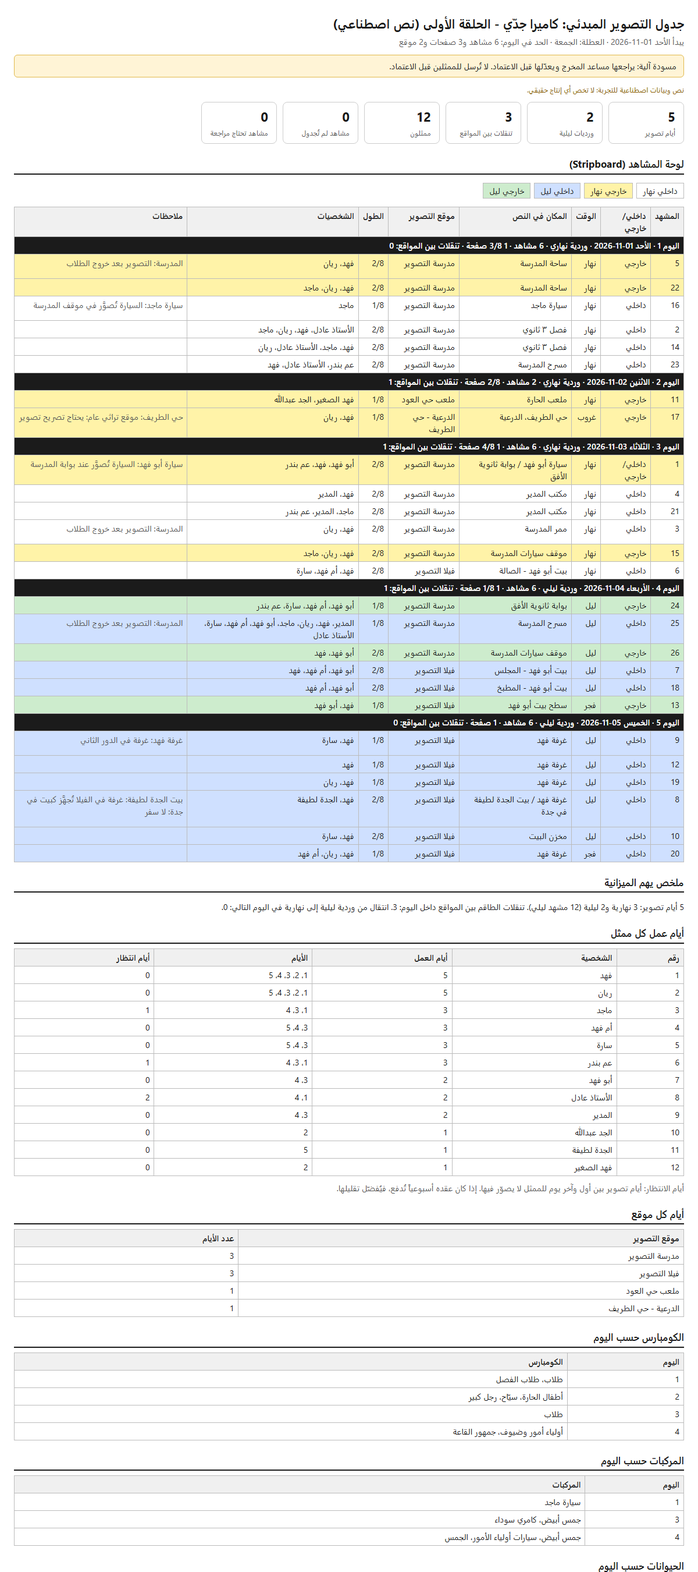
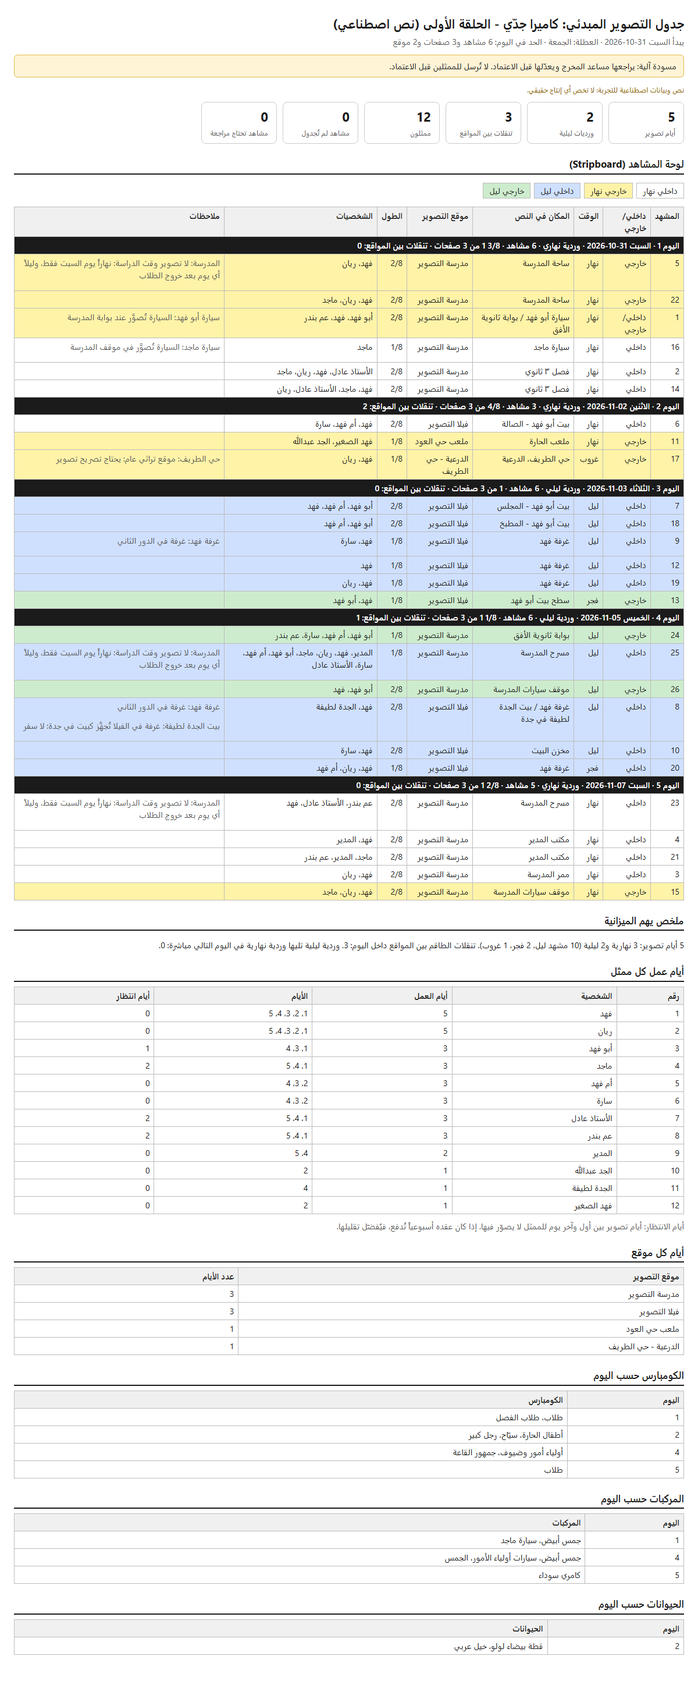
Example schedule, budget summary and call sheets for days 2 and 4, with new screenshots

diff --git a/arabic-script-breakdown/examples/plan/schedule.html b/arabic-script-breakdown/examples/plan/schedule.html
@@ -24,6 +24,9 @@ tr.int-night td { background: #cfe0ff; }
 tr.ext-night td { background: #cdeccd; }
 .legend span { display: inline-block; padding: 2px 10px; border: 1px solid #bbb; margin-left: 6px; }
 .flag { color: #a40000; font-weight: 600; }
+.problems { background: #fdecec; border: 1px solid #c94a4a; color: #7a0000; padding: 8px 12px; border-radius: 6px;
+            margin: 10px 0; }
+.problems ul { margin: 4px 0 0; }
 .num { font-variant-numeric: tabular-nums; }
 span[dir="ltr"] { white-space: nowrap; }
 .watermark { position: fixed; top: 40%; left: 0; right: 0; text-align: center; font-size: 110px;
@@ -33,60 +36,60 @@ span[dir="ltr"] { white-space: nowrap; }
 @media print { body { margin: 0; } .tile { break-inside: avoid; } tr { break-inside: avoid; } }
 </style></head><body>
 <h1>جدول التصوير المبدئي: كاميرا جدّي - الحلقة الأولى (نص اصطناعي)</h1>
-<p class="sub">يبدأ الأحد <span dir="ltr">2026-11-01</span> · العطلة: الجمعة · الحد في اليوم: 6 مشاهد و3 صفحات و2 موقع</p>
+<p class="sub">يبدأ السبت <span dir="ltr">2026-10-31</span> · العطلة: الجمعة · الحد في اليوم: 6 مشاهد و3 صفحات و2 موقع</p>
 <div class="draft">مسودة آلية: يراجعها مساعد المخرج ويعدّلها قبل الاعتماد. لا تُرسل للممثلين قبل الاعتماد.</div>
 <p class="synthetic">نص وبيانات اصطناعية للتجربة: لا تخص أي إنتاج حقيقي.</p>
 <div class="tiles"><div class="tile"><b class="num">5</b><span>أيام تصوير</span></div><div class="tile"><b class="num">2</b><span>ورديات ليلية</span></div><div class="tile"><b class="num">3</b><span>تنقلات بين المواقع</span></div><div class="tile"><b class="num">12</b><span>ممثلون</span></div><div class="tile"><b class="num">0</b><span>مشاهد لم تُجدول</span></div><div class="tile"><b class="num">0</b><span>مشاهد تحتاج مراجعة</span></div></div>
 <h2>لوحة المشاهد (Stripboard)</h2>
 <p class="legend"><span style="background:#fff">داخلي نهار</span><span style="background:#fff3a8">خارجي نهار</span><span style="background:#cfe0ff">داخلي ليل</span><span style="background:#cdeccd">خارجي ليل</span></p>
 <table><thead><tr><th>المشهد</th><th>داخلي/خارجي</th><th>الوقت</th><th>المكان في النص</th><th>موقع التصوير</th><th>الطول</th><th>الشخصيات</th><th>ملاحظات</th></tr></thead><tbody>
-<tr class="daybreak"><td colspan="8">اليوم 1 · الأحد <span dir="ltr">2026-11-01</span> · وردية نهاري · 6 مشاهد · 1 3/8 صفحة · تنقلات بين المواقع: 0</td></tr>
-<tr class="ext-day"><td><span class="num">5</span></td><td>خارجي</td><td>نهار</td><td>ساحة المدرسة</td><td>مدرسة التصوير</td><td>2/8</td><td>فهد، ريان</td><td><div class="sub">المدرسة: التصوير بعد خروج الطلاب</div></td></tr>
+<tr class="daybreak"><td colspan="8">اليوم 1 · السبت <span dir="ltr">2026-10-31</span> · وردية نهاري · 6 مشاهد · <span dir="ltr">1 3/8</span> من 3 صفحات · تنقلات بين المواقع: 0</td></tr>
+<tr class="ext-day"><td><span class="num">5</span></td><td>خارجي</td><td>نهار</td><td>ساحة المدرسة</td><td>مدرسة التصوير</td><td>2/8</td><td>فهد، ريان</td><td><div class="sub">المدرسة: لا تصوير وقت الدراسة: نهاراً يوم السبت فقط، وليلاً أي يوم بعد خروج الطلاب</div></td></tr>
 <tr class="ext-day"><td><span class="num">22</span></td><td>خارجي</td><td>نهار</td><td>ساحة المدرسة</td><td>مدرسة التصوير</td><td>2/8</td><td>فهد، ريان، ماجد</td><td></td></tr>
+<tr class="ext-day"><td><span class="num">1</span></td><td>داخلي/خارجي</td><td>نهار</td><td>سيارة أبو فهد / بوابة ثانوية الأفق</td><td>مدرسة التصوير</td><td>2/8</td><td>أبو فهد، فهد، عم بندر</td><td><div class="sub">سيارة أبو فهد: السيارة تُصوَّر عند بوابة المدرسة</div></td></tr>
 <tr class="int-day"><td><span class="num">16</span></td><td>داخلي</td><td>نهار</td><td>سيارة ماجد</td><td>مدرسة التصوير</td><td>1/8</td><td>ماجد</td><td><div class="sub">سيارة ماجد: السيارة تُصوَّر في موقف المدرسة</div></td></tr>
 <tr class="int-day"><td><span class="num">2</span></td><td>داخلي</td><td>نهار</td><td>فصل ٣ ثانوي</td><td>مدرسة التصوير</td><td>2/8</td><td>الأستاذ عادل، فهد، ريان، ماجد</td><td></td></tr>
 <tr class="int-day"><td><span class="num">14</span></td><td>داخلي</td><td>نهار</td><td>فصل ٣ ثانوي</td><td>مدرسة التصوير</td><td>2/8</td><td>فهد، ماجد، الأستاذ عادل، ريان</td><td></td></tr>
-<tr class="int-day"><td><span class="num">23</span></td><td>داخلي</td><td>نهار</td><td>مسرح المدرسة</td><td>مدرسة التصوير</td><td>2/8</td><td>عم بندر، الأستاذ عادل، فهد</td><td></td></tr>
-<tr class="daybreak"><td colspan="8">اليوم 2 · الاثنين <span dir="ltr">2026-11-02</span> · وردية نهاري · 2 مشاهد · 2/8 صفحة · تنقلات بين المواقع: 1</td></tr>
+<tr class="daybreak"><td colspan="8">اليوم 2 · الاثنين <span dir="ltr">2026-11-02</span> · وردية نهاري · 3 مشاهد · <span dir="ltr">4/8</span> من 3 صفحات · تنقلات بين المواقع: 2</td></tr>
+<tr class="int-day"><td><span class="num">6</span></td><td>داخلي</td><td>نهار</td><td>بيت أبو فهد - الصالة</td><td>فيلا التصوير</td><td>2/8</td><td>فهد، أم فهد، سارة</td><td></td></tr>
 <tr class="ext-day"><td><span class="num">11</span></td><td>خارجي</td><td>نهار</td><td>ملعب الحارة</td><td>ملعب حي العود</td><td>1/8</td><td>فهد الصغير، الجد عبدالله</td><td></td></tr>
 <tr class="ext-day"><td><span class="num">17</span></td><td>خارجي</td><td>غروب</td><td>حي الطريف، الدرعية</td><td>الدرعية - حي الطريف</td><td>1/8</td><td>فهد، ريان</td><td><div class="sub">حي الطريف: موقع تراثي عام: يحتاج تصريح تصوير</div></td></tr>
-<tr class="daybreak"><td colspan="8">اليوم 3 · الثلاثاء <span dir="ltr">2026-11-03</span> · وردية نهاري · 6 مشاهد · 1 4/8 صفحة · تنقلات بين المواقع: 1</td></tr>
-<tr class="ext-day"><td><span class="num">1</span></td><td>داخلي/خارجي</td><td>نهار</td><td>سيارة أبو فهد / بوابة ثانوية الأفق</td><td>مدرسة التصوير</td><td>2/8</td><td>أبو فهد، فهد، عم بندر</td><td><div class="sub">سيارة أبو فهد: السيارة تُصوَّر عند بوابة المدرسة</div></td></tr>
-<tr class="int-day"><td><span class="num">4</span></td><td>داخلي</td><td>نهار</td><td>مكتب المدير</td><td>مدرسة التصوير</td><td>2/8</td><td>فهد، المدير</td><td></td></tr>
-<tr class="int-day"><td><span class="num">21</span></td><td>داخلي</td><td>نهار</td><td>مكتب المدير</td><td>مدرسة التصوير</td><td>2/8</td><td>ماجد، المدير، عم بندر</td><td></td></tr>
-<tr class="int-day"><td><span class="num">3</span></td><td>داخلي</td><td>نهار</td><td>ممر المدرسة</td><td>مدرسة التصوير</td><td>2/8</td><td>فهد، ريان</td><td><div class="sub">المدرسة: التصوير بعد خروج الطلاب</div></td></tr>
-<tr class="ext-day"><td><span class="num">15</span></td><td>خارجي</td><td>نهار</td><td>موقف سيارات المدرسة</td><td>مدرسة التصوير</td><td>2/8</td><td>فهد، ريان، ماجد</td><td></td></tr>
-<tr class="int-day"><td><span class="num">6</span></td><td>داخلي</td><td>نهار</td><td>بيت أبو فهد - الصالة</td><td>فيلا التصوير</td><td>2/8</td><td>فهد، أم فهد، سارة</td><td></td></tr>
-<tr class="daybreak"><td colspan="8">اليوم 4 · الأربعاء <span dir="ltr">2026-11-04</span> · وردية ليلي · 6 مشاهد · 1 1/8 صفحة · تنقلات بين المواقع: 1</td></tr>
-<tr class="ext-night"><td><span class="num">24</span></td><td>خارجي</td><td>ليل</td><td>بوابة ثانوية الأفق</td><td>مدرسة التصوير</td><td>1/8</td><td>أبو فهد، أم فهد، سارة، عم بندر</td><td></td></tr>
-<tr class="int-night"><td><span class="num">25</span></td><td>داخلي</td><td>ليل</td><td>مسرح المدرسة</td><td>مدرسة التصوير</td><td>1/8</td><td>المدير، فهد، ريان، ماجد، أبو فهد، أم فهد، سارة، الأستاذ عادل</td><td><div class="sub">المدرسة: التصوير بعد خروج الطلاب</div></td></tr>
-<tr class="ext-night"><td><span class="num">26</span></td><td>خارجي</td><td>ليل</td><td>موقف سيارات المدرسة</td><td>مدرسة التصوير</td><td>2/8</td><td>أبو فهد، فهد</td><td></td></tr>
+<tr class="daybreak"><td colspan="8">اليوم 3 · الثلاثاء <span dir="ltr">2026-11-03</span> · وردية ليلي · 6 مشاهد · <span dir="ltr">1</span> من 3 صفحات · تنقلات بين المواقع: 0</td></tr>
 <tr class="int-night"><td><span class="num">7</span></td><td>داخلي</td><td>ليل</td><td>بيت أبو فهد - المجلس</td><td>فيلا التصوير</td><td>2/8</td><td>أبو فهد، أم فهد، فهد</td><td></td></tr>
 <tr class="int-night"><td><span class="num">18</span></td><td>داخلي</td><td>ليل</td><td>بيت أبو فهد - المطبخ</td><td>فيلا التصوير</td><td>2/8</td><td>أبو فهد، أم فهد</td><td></td></tr>
-<tr class="ext-night"><td><span class="num">13</span></td><td>خارجي</td><td>فجر</td><td>سطح بيت أبو فهد</td><td>فيلا التصوير</td><td>1/8</td><td>فهد، أبو فهد</td><td></td></tr>
-<tr class="daybreak"><td colspan="8">اليوم 5 · الخميس <span dir="ltr">2026-11-05</span> · وردية ليلي · 6 مشاهد · 1 صفحة · تنقلات بين المواقع: 0</td></tr>
 <tr class="int-night"><td><span class="num">9</span></td><td>داخلي</td><td>ليل</td><td>غرفة فهد</td><td>فيلا التصوير</td><td>1/8</td><td>فهد، سارة</td><td><div class="sub">غرفة فهد: غرفة في الدور الثاني</div></td></tr>
 <tr class="int-night"><td><span class="num">12</span></td><td>داخلي</td><td>ليل</td><td>غرفة فهد</td><td>فيلا التصوير</td><td>1/8</td><td>فهد</td><td></td></tr>
 <tr class="int-night"><td><span class="num">19</span></td><td>داخلي</td><td>ليل</td><td>غرفة فهد</td><td>فيلا التصوير</td><td>1/8</td><td>فهد، ريان</td><td></td></tr>
-<tr class="int-night"><td><span class="num">8</span></td><td>داخلي</td><td>ليل</td><td>غرفة فهد / بيت الجدة لطيفة في جدة</td><td>فيلا التصوير</td><td>2/8</td><td>فهد، الجدة لطيفة</td><td><div class="sub">بيت الجدة لطيفة: غرفة في الفيلا تُجهَّز كبيت في جدة: لا سفر</div></td></tr>
+<tr class="ext-night"><td><span class="num">13</span></td><td>خارجي</td><td>فجر</td><td>سطح بيت أبو فهد</td><td>فيلا التصوير</td><td>1/8</td><td>فهد، أبو فهد</td><td></td></tr>
+<tr class="daybreak"><td colspan="8">اليوم 4 · الخميس <span dir="ltr">2026-11-05</span> · وردية ليلي · 6 مشاهد · <span dir="ltr">1 1/8</span> من 3 صفحات · تنقلات بين المواقع: 1</td></tr>
+<tr class="ext-night"><td><span class="num">24</span></td><td>خارجي</td><td>ليل</td><td>بوابة ثانوية الأفق</td><td>مدرسة التصوير</td><td>1/8</td><td>أبو فهد، أم فهد، سارة، عم بندر</td><td></td></tr>
+<tr class="int-night"><td><span class="num">25</span></td><td>داخلي</td><td>ليل</td><td>مسرح المدرسة</td><td>مدرسة التصوير</td><td>1/8</td><td>المدير، فهد، ريان، ماجد، أبو فهد، أم فهد، سارة، الأستاذ عادل</td><td><div class="sub">المدرسة: لا تصوير وقت الدراسة: نهاراً يوم السبت فقط، وليلاً أي يوم بعد خروج الطلاب</div></td></tr>
+<tr class="ext-night"><td><span class="num">26</span></td><td>خارجي</td><td>ليل</td><td>موقف سيارات المدرسة</td><td>مدرسة التصوير</td><td>2/8</td><td>أبو فهد، فهد</td><td></td></tr>
+<tr class="int-night"><td><span class="num">8</span></td><td>داخلي</td><td>ليل</td><td>غرفة فهد / بيت الجدة لطيفة في جدة</td><td>فيلا التصوير</td><td>2/8</td><td>فهد، الجدة لطيفة</td><td><div class="sub">غرفة فهد: غرفة في الدور الثاني</div><div class="sub">بيت الجدة لطيفة: غرفة في الفيلا تُجهَّز كبيت في جدة: لا سفر</div></td></tr>
 <tr class="int-night"><td><span class="num">10</span></td><td>داخلي</td><td>ليل</td><td>مخزن البيت</td><td>فيلا التصوير</td><td>2/8</td><td>فهد، سارة</td><td></td></tr>
 <tr class="int-night"><td><span class="num">20</span></td><td>داخلي</td><td>فجر</td><td>غرفة فهد</td><td>فيلا التصوير</td><td>1/8</td><td>فهد، ريان، أم فهد</td><td></td></tr>
+<tr class="daybreak"><td colspan="8">اليوم 5 · السبت <span dir="ltr">2026-11-07</span> · وردية نهاري · 5 مشاهد · <span dir="ltr">1 2/8</span> من 3 صفحات · تنقلات بين المواقع: 0</td></tr>
+<tr class="int-day"><td><span class="num">23</span></td><td>داخلي</td><td>نهار</td><td>مسرح المدرسة</td><td>مدرسة التصوير</td><td>2/8</td><td>عم بندر، الأستاذ عادل، فهد</td><td><div class="sub">المدرسة: لا تصوير وقت الدراسة: نهاراً يوم السبت فقط، وليلاً أي يوم بعد خروج الطلاب</div></td></tr>
+<tr class="int-day"><td><span class="num">4</span></td><td>داخلي</td><td>نهار</td><td>مكتب المدير</td><td>مدرسة التصوير</td><td>2/8</td><td>فهد، المدير</td><td></td></tr>
+<tr class="int-day"><td><span class="num">21</span></td><td>داخلي</td><td>نهار</td><td>مكتب المدير</td><td>مدرسة التصوير</td><td>2/8</td><td>ماجد، المدير، عم بندر</td><td></td></tr>
+<tr class="int-day"><td><span class="num">3</span></td><td>داخلي</td><td>نهار</td><td>ممر المدرسة</td><td>مدرسة التصوير</td><td>2/8</td><td>فهد، ريان</td><td></td></tr>
+<tr class="ext-day"><td><span class="num">15</span></td><td>خارجي</td><td>نهار</td><td>موقف سيارات المدرسة</td><td>مدرسة التصوير</td><td>2/8</td><td>فهد، ريان، ماجد</td><td></td></tr>
 </tbody></table>
 <h2>ملخص يهم الميزانية</h2>
-<p>5 أيام تصوير: 3 نهارية و2 ليلية (12 مشهد ليلي). تنقلات الطاقم بين المواقع داخل اليوم: 3. انتقال من وردية ليلية إلى نهارية في اليوم التالي: 0.</p>
+<p>5 أيام تصوير: 3 نهارية و2 ليلية (10 مشهد ليل، 2 فجر، 1 غروب). تنقلات الطاقم بين المواقع داخل اليوم: 3. وردية ليلية تليها وردية نهارية في اليوم التالي مباشرة: 0.</p>
 <h2>أيام عمل كل ممثل</h2>
 <table><thead><tr><th>رقم</th><th>الشخصية</th><th>أيام العمل</th><th>الأيام</th><th>أيام انتظار</th></tr></thead><tbody>
 <tr><td>1</td><td>فهد</td><td>5</td><td>1، 2، 3، 4، 5</td><td>0</td></tr>
 <tr><td>2</td><td>ريان</td><td>5</td><td>1، 2، 3، 4، 5</td><td>0</td></tr>
-<tr><td>3</td><td>ماجد</td><td>3</td><td>1، 3، 4</td><td>1</td></tr>
-<tr><td>4</td><td>أم فهد</td><td>3</td><td>3، 4، 5</td><td>0</td></tr>
-<tr><td>5</td><td>سارة</td><td>3</td><td>3، 4، 5</td><td>0</td></tr>
-<tr><td>6</td><td>عم بندر</td><td>3</td><td>1، 3، 4</td><td>1</td></tr>
-<tr><td>7</td><td>أبو فهد</td><td>2</td><td>3، 4</td><td>0</td></tr>
-<tr><td>8</td><td>الأستاذ عادل</td><td>2</td><td>1، 4</td><td>2</td></tr>
-<tr><td>9</td><td>المدير</td><td>2</td><td>3، 4</td><td>0</td></tr>
+<tr><td>3</td><td>أبو فهد</td><td>3</td><td>1، 3، 4</td><td>1</td></tr>
+<tr><td>4</td><td>ماجد</td><td>3</td><td>1، 4، 5</td><td>2</td></tr>
+<tr><td>5</td><td>أم فهد</td><td>3</td><td>2، 3، 4</td><td>0</td></tr>
+<tr><td>6</td><td>سارة</td><td>3</td><td>2، 3، 4</td><td>0</td></tr>
+<tr><td>7</td><td>الأستاذ عادل</td><td>3</td><td>1، 4، 5</td><td>2</td></tr>
+<tr><td>8</td><td>عم بندر</td><td>3</td><td>1، 4، 5</td><td>2</td></tr>
+<tr><td>9</td><td>المدير</td><td>2</td><td>4، 5</td><td>0</td></tr>
 <tr><td>10</td><td>الجد عبدالله</td><td>1</td><td>2</td><td>0</td></tr>
-<tr><td>11</td><td>الجدة لطيفة</td><td>1</td><td>5</td><td>0</td></tr>
+<tr><td>11</td><td>الجدة لطيفة</td><td>1</td><td>4</td><td>0</td></tr>
 <tr><td>12</td><td>فهد الصغير</td><td>1</td><td>2</td><td>0</td></tr>
 </tbody></table>
 <p class="sub">أيام الانتظار: أيام تصوير بين أول وآخر يوم للممثل لا يصوّر فيها. إذا كان عقده أسبوعياً تُدفع، فيُفضّل تقليلها.</p>
@@ -101,18 +104,17 @@ span[dir="ltr"] { white-space: nowrap; }
 <table><thead><tr><th>اليوم</th><th>الكومبارس</th></tr></thead><tbody>
 <tr><td>1</td><td>طلاب، طلاب الفصل</td></tr>
 <tr><td>2</td><td>أطفال الحارة، سيّاح، رجل كبير</td></tr>
-<tr><td>3</td><td>طلاب</td></tr>
 <tr><td>4</td><td>أولياء أمور وضيوف، جمهور القاعة</td></tr>
+<tr><td>5</td><td>طلاب</td></tr>
 </tbody></table>
 <h2>المركبات حسب اليوم</h2>
 <table><thead><tr><th>اليوم</th><th>المركبات</th></tr></thead><tbody>
-<tr><td>1</td><td>سيارة ماجد</td></tr>
-<tr><td>3</td><td>جمس أبيض، كامري سوداء</td></tr>
+<tr><td>1</td><td>جمس أبيض، سيارة ماجد</td></tr>
 <tr><td>4</td><td>جمس أبيض، سيارات أولياء الأمور، الجمس</td></tr>
+<tr><td>5</td><td>كامري سوداء</td></tr>
 </tbody></table>
 <h2>الحيوانات حسب اليوم</h2>
 <table><thead><tr><th>اليوم</th><th>الحيوانات</th></tr></thead><tbody>
-<tr><td>2</td><td>خيل عربي</td></tr>
-<tr><td>3</td><td>قطة بيضاء لولو</td></tr>
+<tr><td>2</td><td>قطة بيضاء لولو، خيل عربي</td></tr>
 </tbody></table>
 </body></html>

diff --git a/arabic-script-breakdown/examples/plan/call_sheet_day_4.html b/arabic-script-breakdown/examples/plan/call_sheet_day_4.html
@@ -1,0 +1,90 @@
+<!doctype html>
+<html lang="ar" dir="rtl"><head><meta charset="utf-8"><title>ورقة الاستدعاء - اليوم 4</title><style>
+@page { size: A4; margin: 12mm; }
+* { box-sizing: border-box; }
+body { font-family: "Segoe UI", Tahoma, "Noto Naskh Arabic", sans-serif; direction: rtl; color: #1b1b1b;
+       margin: 24px; font-size: 14px; line-height: 1.5; }
+h1 { font-size: 22px; margin: 0 0 4px; }
+h2 { font-size: 17px; margin: 22px 0 8px; border-bottom: 2px solid #1b1b1b; padding-bottom: 3px; }
+.sub { color: #555; margin: 0 0 12px; }
+.draft { background: #fff4d6; border: 1px solid #e0b84c; padding: 8px 12px; border-radius: 6px; margin: 10px 0; }
+.approved { background: #e6f4ea; border: 1px solid #5aa36d; padding: 8px 12px; border-radius: 6px; margin: 10px 0; }
+.synthetic { color: #8a5a00; font-size: 12px; }
+table { border-collapse: collapse; width: 100%; margin: 6px 0 10px; }
+th, td { border: 1px solid #bbb; padding: 4px 7px; text-align: right; vertical-align: top; }
+th { background: #f0f0f0; font-weight: 600; }
+.tiles { display: flex; gap: 10px; flex-wrap: wrap; margin: 10px 0; }
+.tile { border: 1px solid #ccc; border-radius: 8px; padding: 8px 14px; min-width: 130px; }
+.tile b { display: block; font-size: 22px; }
+.tile span { color: #555; font-size: 12px; }
+tr.daybreak td { background: #1b1b1b; color: #fff; font-weight: 600; }
+tr.int-day td { background: #ffffff; }
+tr.ext-day td { background: #fff3a8; }
+tr.int-night td { background: #cfe0ff; }
+tr.ext-night td { background: #cdeccd; }
+.legend span { display: inline-block; padding: 2px 10px; border: 1px solid #bbb; margin-left: 6px; }
+.flag { color: #a40000; font-weight: 600; }
+.problems { background: #fdecec; border: 1px solid #c94a4a; color: #7a0000; padding: 8px 12px; border-radius: 6px;
+            margin: 10px 0; }
+.problems ul { margin: 4px 0 0; }
+.num { font-variant-numeric: tabular-nums; }
+span[dir="ltr"] { white-space: nowrap; }
+.watermark { position: fixed; top: 40%; left: 0; right: 0; text-align: center; font-size: 110px;
+             color: rgba(200, 0, 0, 0.08); transform: rotate(-20deg); pointer-events: none; }
+.grid2 { display: grid; grid-template-columns: 1fr 1fr; gap: 12px; }
+.sign { margin-top: 18px; border-top: 1px dashed #999; padding-top: 8px; }
+@media print { body { margin: 0; } .tile { break-inside: avoid; } tr { break-inside: avoid; } }
+</style></head><body>
+<h1>ورقة الاستدعاء: كاميرا جدّي - الحلقة الأولى (نص اصطناعي)</h1>
+<p class="sub">اليوم 4 من 5 · الخميس <span dir="ltr">2026-11-05</span> · وردية ليلي · حضور الطاقم <b>20:20</b> · الاستراحة 02:50 (+1) · نهاية متوقعة 06:09 (+1) · الغروب 17:07 · الشروق 06:09 (+1) (تقريبي)</p>
+<div class="watermark">مسودة</div><div class="draft">مسودة آلية: يراجعها مساعد المخرج ويعدّلها قبل الاعتماد. لا تُرسل للممثلين قبل الاعتماد.</div>
+<p class="synthetic">نص وبيانات اصطناعية للتجربة: لا تخص أي إنتاج حقيقي.</p>
+<h2>المواقع</h2>
+<table><thead><tr><th>موقع التصوير</th><th>العنوان</th><th>المشاهد</th></tr></thead><tbody>
+<tr><td>مدرسة التصوير</td><td>حي النرجس - الرياض (عنوان تجريبي)</td><td>24، 25، 26</td></tr>
+<tr><td>فيلا التصوير</td><td>حي الملقا - الرياض (عنوان تجريبي)</td><td>8، 10، 20</td></tr>
+</tbody></table>
+<h2>المشاهد بالترتيب</h2>
+<table><thead><tr><th>#</th><th>بداية تقديرية</th><th>المشهد</th><th>داخلي/خارجي</th><th>الوقت</th><th>المكان</th><th>الطول</th><th>الشخصيات (بالرقم)</th><th>الإكسسوار</th></tr></thead><tbody>
+<tr class="ext-night"><td>1</td><td>21:20</td><td>24</td><td>خارجي</td><td>ليل</td><td>بوابة ثانوية الأفق</td><td>1/8</td><td>3. أبو فهد، 5. أم فهد، 6. سارة، 8. عم بندر</td><td></td></tr>
+<tr class="int-night"><td>2</td><td>22:20</td><td>25</td><td>داخلي</td><td>ليل</td><td>مسرح المدرسة</td><td>1/8</td><td>9. المدير، 1. فهد، 2. ريان، 4. ماجد، 3. أبو فهد، 5. أم فهد، 6. سارة، 7. الأستاذ عادل</td><td>ميكروفون</td></tr>
+<tr class="ext-night"><td>3</td><td>23:20</td><td>26</td><td>خارجي</td><td>ليل</td><td>موقف سيارات المدرسة</td><td>2/8</td><td>3. أبو فهد، 1. فهد</td><td>شهادة تقدير، كاميرا قديمة</td></tr>
+<tr class="int-night"><td>4</td><td>01:35 (+1)</td><td>8</td><td>داخلي</td><td>ليل</td><td>غرفة فهد / بيت الجدة لطيفة في جدة</td><td>2/8</td><td>1. فهد، 11. الجدة لطيفة</td><td>جوال</td></tr>
+<tr class="int-night"><td>5</td><td>03:50 (+1)</td><td>10</td><td>داخلي</td><td>ليل</td><td>مخزن البيت</td><td>2/8</td><td>1. فهد، 6. سارة</td><td>كشاف، صندوق خشبي، كاميرا سينما قديمة، ألبوم صور، صورة</td></tr>
+<tr class="int-night"><td>6</td><td>05:09 (+1)<br><small>ضوء الفجر</small></td><td>20</td><td>داخلي</td><td>فجر</td><td>غرفة فهد</td><td>1/8</td><td>1. فهد، 2. ريان، 5. أم فهد</td><td>لابتوب، شماغ</td></tr>
+</tbody></table>
+<h2>الممثلون</h2>
+<table><thead><tr><th>رقم</th><th>الشخصية</th><th>الممثل</th><th>أول مشهد</th><th>الحضور (مكياج وملابس)</th><th>جاهز في الموقع</th></tr></thead><tbody>
+<tr><td>3</td><td>أبو فهد</td><td>—</td><td>24</td><td><b>19:50</b></td><td>21:20</td></tr>
+<tr><td>5</td><td>أم فهد</td><td>—</td><td>24</td><td><b>19:50</b></td><td>21:20</td></tr>
+<tr><td>6</td><td>سارة</td><td>—</td><td>24</td><td><b>19:50</b></td><td>21:20</td></tr>
+<tr><td>8</td><td>عم بندر</td><td>—</td><td>24</td><td><b>19:50</b></td><td>21:20</td></tr>
+<tr><td>9</td><td>المدير</td><td>—</td><td>25</td><td><b>20:50</b></td><td>22:20</td></tr>
+<tr><td>1</td><td>فهد</td><td>—</td><td>25</td><td><b>20:50</b></td><td>22:20</td></tr>
+<tr><td>2</td><td>ريان</td><td>—</td><td>25</td><td><b>20:50</b></td><td>22:20</td></tr>
+<tr><td>4</td><td>ماجد</td><td>—</td><td>25</td><td><b>20:50</b></td><td>22:20</td></tr>
+<tr><td>7</td><td>الأستاذ عادل</td><td>—</td><td>25</td><td><b>20:50</b></td><td>22:20</td></tr>
+<tr><td>11</td><td>الجدة لطيفة</td><td>—</td><td>8</td><td><b>00:05 (+1)</b></td><td>01:35 (+1)</td></tr>
+</tbody></table>
+<div class="grid2">
+<div><h2>الأزياء والمكياج</h2><table><thead><tr><th>المشهد</th><th>الأزياء والمكياج</th></tr></thead><tbody>
+<tr><td>24</td><td>عم بندر يلبس بشت</td></tr>
+</tbody></table></div>
+<div><h2>المركبات</h2><table><thead><tr><th>المشهد</th><th>المركبات</th></tr></thead><tbody>
+<tr><td>24</td><td>جمس أبيض، سيارات أولياء الأمور</td></tr>
+<tr><td>26</td><td>الجمس</td></tr>
+</tbody></table></div>
+<div><h2>الكومبارس</h2><table><thead><tr><th>المشهد</th><th>الكومبارس</th></tr></thead><tbody>
+<tr><td>24</td><td>أولياء أمور وضيوف</td></tr>
+<tr><td>25</td><td>جمهور القاعة</td></tr>
+</tbody></table></div>
+<div><h2>المؤثرات والصوت</h2><table><thead><tr><th>المشهد</th><th>المؤثرات والصوت</th></tr></thead><tbody>
+<tr><td>25</td><td>تصفيق عالي</td></tr>
+<tr><td>8</td><td>صوت البحر من بعيد</td></tr>
+<tr><td>10</td><td>عطسة</td></tr>
+</tbody></table></div>
+</div>
+<h2>ملاحظات</h2>
+<ul><li>أبو فهد: مرتبط بتصوير عمل آخر أول يومين</li><li>الجدة لطيفة: تحضر من جدة يومين فقط</li><li>المدرسة: لا تصوير وقت الدراسة: نهاراً يوم السبت فقط، وليلاً أي يوم بعد خروج الطلاب</li><li>غرفة فهد: غرفة في الدور الثاني</li><li>بيت الجدة لطيفة: غرفة في الفيلا تُجهَّز كبيت في جدة: لا سفر</li><li>المشهد 20 يُصوَّر في ضوء الفجر: وقته محسوب ليصل إلى الشروق (06:09 (+1) تقريباً). تأكد من الدقيقة يوم التصوير</li></ul>
+<div class="sign">اعتماد مساعد المخرج: ____________ &nbsp;&nbsp; التاريخ: ________</div>
+</body></html>

diff --git a/arabic-script-breakdown/examples/plan/call_sheet_day_2.html b/arabic-script-breakdown/examples/plan/call_sheet_day_2.html
@@ -24,6 +24,9 @@ tr.int-night td { background: #cfe0ff; }
 tr.ext-night td { background: #cdeccd; }
 .legend span { display: inline-block; padding: 2px 10px; border: 1px solid #bbb; margin-left: 6px; }
 .flag { color: #a40000; font-weight: 600; }
+.problems { background: #fdecec; border: 1px solid #c94a4a; color: #7a0000; padding: 8px 12px; border-radius: 6px;
+            margin: 10px 0; }
+.problems ul { margin: 4px 0 0; }
 .num { font-variant-numeric: tabular-nums; }
 span[dir="ltr"] { white-space: nowrap; }
 .watermark { position: fixed; top: 40%; left: 0; right: 0; text-align: center; font-size: 110px;
@@ -33,25 +36,29 @@ span[dir="ltr"] { white-space: nowrap; }
 @media print { body { margin: 0; } .tile { break-inside: avoid; } tr { break-inside: avoid; } }
 </style></head><body>
 <h1>ورقة الاستدعاء: كاميرا جدّي - الحلقة الأولى (نص اصطناعي)</h1>
-<p class="sub">اليوم 2 من 5 · الاثنين <span dir="ltr">2026-11-02</span> · وردية نهاري · حضور الطاقم <b>07:00</b> · نهاية متوقعة 11:00</p>
+<p class="sub">اليوم 2 من 5 · الاثنين <span dir="ltr">2026-11-02</span> · وردية نهاري · حضور الطاقم <b>10:50</b> · نهاية متوقعة 17:07 · الغروب 17:07 (تقريبي)</p>
 <div class="watermark">مسودة</div><div class="draft">مسودة آلية: يراجعها مساعد المخرج ويعدّلها قبل الاعتماد. لا تُرسل للممثلين قبل الاعتماد.</div>
 <p class="synthetic">نص وبيانات اصطناعية للتجربة: لا تخص أي إنتاج حقيقي.</p>
 <h2>المواقع</h2>
 <table><thead><tr><th>موقع التصوير</th><th>العنوان</th><th>المشاهد</th></tr></thead><tbody>
+<tr><td>فيلا التصوير</td><td>حي الملقا - الرياض (عنوان تجريبي)</td><td>6</td></tr>
 <tr><td>ملعب حي العود</td><td>حي العود - الرياض (عنوان تجريبي)</td><td>11</td></tr>
 <tr><td>الدرعية - حي الطريف</td><td>الدرعية</td><td>17</td></tr>
 </tbody></table>
 <h2>المشاهد بالترتيب</h2>
 <table><thead><tr><th>#</th><th>بداية تقديرية</th><th>المشهد</th><th>داخلي/خارجي</th><th>الوقت</th><th>المكان</th><th>الطول</th><th>الشخصيات (بالرقم)</th><th>الإكسسوار</th></tr></thead><tbody>
-<tr class="ext-day"><td>1</td><td>08:00</td><td>11</td><td>خارجي</td><td>نهار</td><td>ملعب الحارة</td><td>1/8</td><td>12. فهد الصغير، 10. الجد عبدالله</td><td>كاميرا سينمائية، كورة، عصا</td></tr>
-<tr class="ext-day"><td>2</td><td>10:00</td><td>17</td><td>خارجي</td><td>غروب</td><td>حي الطريف، الدرعية</td><td>1/8</td><td>1. فهد، 2. ريان</td><td>كاميرا قديمة، حامل كاميرا، جوال</td></tr>
+<tr class="int-day"><td>1</td><td>11:50</td><td>6</td><td>داخلي</td><td>نهار</td><td>بيت أبو فهد - الصالة</td><td>2/8</td><td>1. فهد، 5. أم فهد، 6. سارة</td><td>دلة القهوة، شنطة المدرسة، استمارة المسابقة</td></tr>
+<tr class="ext-day"><td>2</td><td>14:05</td><td>11</td><td>خارجي</td><td>نهار</td><td>ملعب الحارة</td><td>1/8</td><td>12. فهد الصغير، 10. الجد عبدالله</td><td>كاميرا سينمائية، كورة، عصا</td></tr>
+<tr class="ext-day"><td>3</td><td>16:07<br><small>ضوء الغروب</small></td><td>17</td><td>خارجي</td><td>غروب</td><td>حي الطريف، الدرعية</td><td>1/8</td><td>1. فهد، 2. ريان</td><td>كاميرا قديمة، حامل كاميرا، جوال</td></tr>
 </tbody></table>
 <h2>الممثلون</h2>
 <table><thead><tr><th>رقم</th><th>الشخصية</th><th>الممثل</th><th>أول مشهد</th><th>الحضور (مكياج وملابس)</th><th>جاهز في الموقع</th></tr></thead><tbody>
-<tr><td>12</td><td>فهد الصغير</td><td>—</td><td>11</td><td><b>06:30</b></td><td>08:00</td></tr>
-<tr><td>10</td><td>الجد عبدالله</td><td>—</td><td>11</td><td><b>06:30</b></td><td>08:00</td></tr>
-<tr><td>1</td><td>فهد</td><td>—</td><td>17</td><td><b>08:30</b></td><td>10:00</td></tr>
-<tr><td>2</td><td>ريان</td><td>—</td><td>17</td><td><b>08:30</b></td><td>10:00</td></tr>
+<tr><td>1</td><td>فهد</td><td>—</td><td>6</td><td><b>10:20</b></td><td>11:50</td></tr>
+<tr><td>5</td><td>أم فهد</td><td>—</td><td>6</td><td><b>10:20</b></td><td>11:50</td></tr>
+<tr><td>6</td><td>سارة</td><td>—</td><td>6</td><td><b>10:20</b></td><td>11:50</td></tr>
+<tr><td>12</td><td>فهد الصغير</td><td>—</td><td>11</td><td><b>12:35</b></td><td>14:05</td></tr>
+<tr><td>10</td><td>الجد عبدالله</td><td>—</td><td>11</td><td><b>12:35</b></td><td>14:05</td></tr>
+<tr><td>2</td><td>ريان</td><td>—</td><td>17</td><td><b>14:37</b></td><td>16:07</td></tr>
 </tbody></table>
 <div class="grid2">
 <div><h2>الأزياء والمكياج</h2><table><thead><tr><th>المشهد</th><th>الأزياء والمكياج</th></tr></thead><tbody>
@@ -65,6 +72,6 @@ span[dir="ltr"] { white-space: nowrap; }
 <div><h2>المؤثرات والصوت</h2><p>لا يوجد</p></div>
 </div>
 <h2>ملاحظات</h2>
-<ul><li>فهد الصغير: ممثل طفل: تصوير نهاري فقط وبحضور ولي الأمر</li><li>حي الطريف: موقع تراثي عام: يحتاج تصريح تصوير</li><li>المشهد 11 فلاش باك: أزياء ومكياج الفترة القديمة</li><li>المشهد 17 مرتبط بضوء الغروب: الوقت المكتوب تقديري، يُضبط على وقت الغروب الفعلي في يوم التصوير</li><li>المشهد 17: حيوان في التصوير (خيل عربي): يحضر المسؤول عنه</li></ul>
+<ul><li>فهد الصغير: ممثل طفل: تصوير نهاري فقط وبحضور ولي الأمر</li><li>حي الطريف: موقع تراثي عام: يحتاج تصريح تصوير</li><li>المشهد 6: حيوان في التصوير (قطة بيضاء لولو): يحضر المسؤول عنه</li><li>المشهد 11 فلاش باك: أزياء ومكياج الفترة القديمة</li><li>المشهد 17 يُصوَّر في ضوء الغروب: وقته محسوب ليصل إلى الغروب (17:07 تقريباً). تأكد من الدقيقة يوم التصوير</li><li>المشهد 17: حيوان في التصوير (خيل عربي): يحضر المسؤول عنه</li></ul>
 <div class="sign">اعتماد مساعد المخرج: ____________ &nbsp;&nbsp; التاريخ: ________</div>
 </body></html>

diff --git a/arabic-script-breakdown/examples/plan/budget_summary.md b/arabic-script-breakdown/examples/plan/budget_summary.md
@@ -5,9 +5,11 @@
 | أيام التصوير | 5 |
 | ورديات نهارية | 3 |
 | ورديات ليلية | 2 |
-| مشاهد ليلية | 12 |
+| مشاهد ليل | 10 |
+| مشاهد فجر | 2 |
+| مشاهد غروب | 1 |
 | تنقلات الطاقم بين المواقع | 3 |
-| انتقال من ليلي إلى نهاري | 0 |
+| وردية ليلية تليها نهارية في اليوم التالي | 0 |
 | مشاهد لم تُجدول | 0 |
 | مشاهد تحتاج مراجعة | 0 |
 
@@ -17,15 +19,15 @@
 |---|---|---|---|---|
 | 1 | فهد | 5 | 1, 2, 3, 4, 5 | 0 |
 | 2 | ريان | 5 | 1, 2, 3, 4, 5 | 0 |
-| 3 | ماجد | 3 | 1, 3, 4 | 1 |
-| 4 | أم فهد | 3 | 3, 4, 5 | 0 |
-| 5 | سارة | 3 | 3, 4, 5 | 0 |
-| 6 | عم بندر | 3 | 1, 3, 4 | 1 |
-| 7 | أبو فهد | 2 | 3, 4 | 0 |
-| 8 | الأستاذ عادل | 2 | 1, 4 | 2 |
-| 9 | المدير | 2 | 3, 4 | 0 |
+| 3 | أبو فهد | 3 | 1, 3, 4 | 1 |
+| 4 | ماجد | 3 | 1, 4, 5 | 2 |
+| 5 | أم فهد | 3 | 2, 3, 4 | 0 |
+| 6 | سارة | 3 | 2, 3, 4 | 0 |
+| 7 | الأستاذ عادل | 3 | 1, 4, 5 | 2 |
+| 8 | عم بندر | 3 | 1, 4, 5 | 2 |
+| 9 | المدير | 2 | 4, 5 | 0 |
 | 10 | الجد عبدالله | 1 | 2 | 0 |
-| 11 | الجدة لطيفة | 1 | 5 | 0 |
+| 11 | الجدة لطيفة | 1 | 4 | 0 |
 | 12 | فهد الصغير | 1 | 2 | 0 |
 
 ## أيام كل موقع
@@ -43,20 +45,19 @@
 |---|---|
 | 1 | طلاب، طلاب الفصل |
 | 2 | أطفال الحارة، سيّاح، رجل كبير |
-| 3 | طلاب |
 | 4 | أولياء أمور وضيوف، جمهور القاعة |
+| 5 | طلاب |
 
 ## المركبات حسب اليوم
 
 | اليوم | المركبات |
 |---|---|
-| 1 | سيارة ماجد |
-| 3 | جمس أبيض، كامري سوداء |
+| 1 | جمس أبيض، سيارة ماجد |
 | 4 | جمس أبيض، سيارات أولياء الأمور، الجمس |
+| 5 | كامري سوداء |
 
 ## الحيوانات حسب اليوم
 
 | اليوم | الحيوانات |
 |---|---|
-| 2 | خيل عربي |
-| 3 | قطة بيضاء لولو |
+| 2 | قطة بيضاء لولو، خيل عربي |
